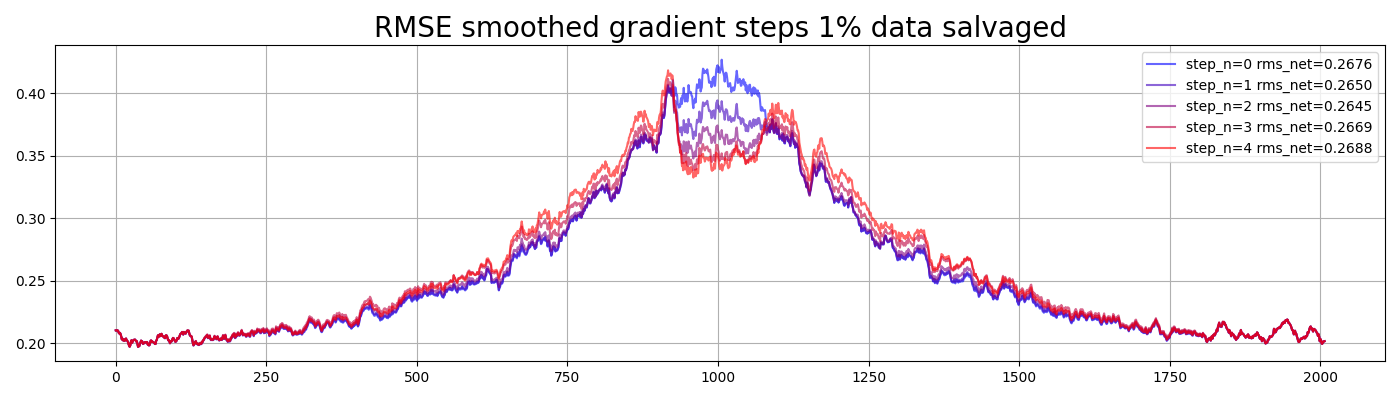
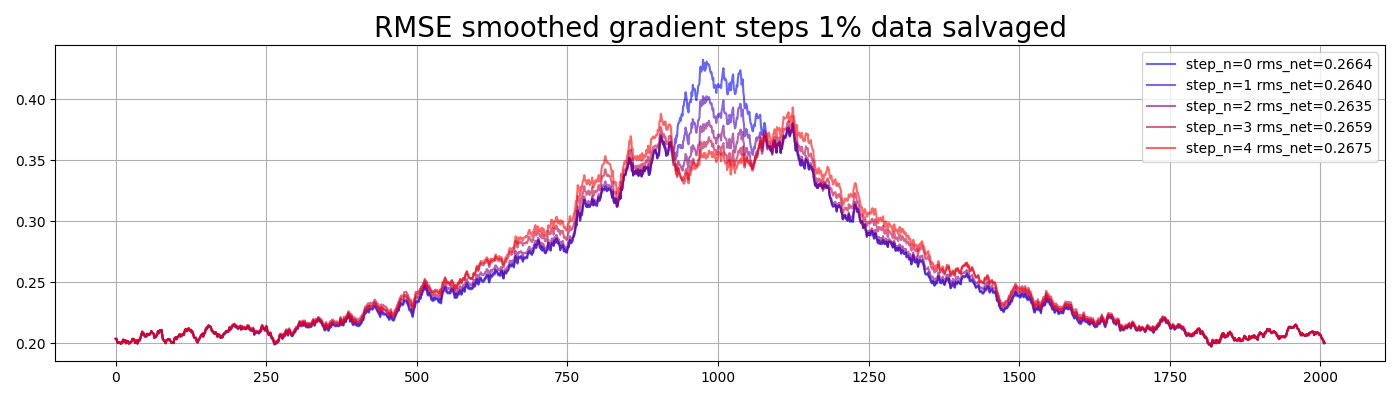
colorscheme change

diff --git a/plots/four_segments_sinc_hanning.py b/plots/four_segments_sinc_hanning.py
@@ -7,6 +7,9 @@ sys.path.append("..")
 import numpy as np
 import matplotlib.pyplot as plt
 
+# Choose a photocopy & color-blind friendly colormap
+colors=plt.get_cmap('Set2').colors # get list of RGB color values
+
 # `ntap` is the number of taps
 # `lblock` is `2*nchan` which is the number of channels before transform
 ntap, lblock = 4, 2048
@@ -28,17 +31,30 @@ plt.figure(figsize=(8.5,7))
 plt.title("".format(ntap,lblock),fontsize=22)
 # Plot the sinc hanning window segments
 # Segment 0
-plt.plot(seg0, color="green", linewidth=0.8, label="segment 0")
-plt.plot(np.arange(0,lblock), sinc_hann[0:lblock], "--", color="green", alpha=0.5, linewidth=3)
+#plt.plot(seg0, color="green", linewidth=0.8, label="segment 0")
+x,y,c = np.arange(0,lblock),sinc_hann[0:lblock],colors[0]
+plt.plot(x,y,"--", color=c, linewidth=3)
+plt.fill_between(x,y,step="pre",alpha=0.4,color=c)
 # Segment 1
-plt.plot(seg1, color="orange", linewidth=0.8, label="segment 1")
-plt.plot(np.arange(lblock,2*lblock), sinc_hann[lblock:2*lblock], "--", color="orange", alpha=0.5, linewidth=3)
+#plt.plot(seg1, color="orange", linewidth=0.8, label="segment 1")
+x,y,c = np.arange(lblock,2*lblock),sinc_hann[lblock:2*lblock],colors[1]
+plt.plot(x,y, "--", color=c,linewidth=3)
+plt.fill_between(x,y,step="pre",alpha=0.4,color=c)
 # Segment 2
-plt.plot(seg2, color="purple", linewidth=0.8, label="segment 2")
-plt.plot(np.arange(2*lblock,3*lblock), sinc_hann[2*lblock:3*lblock], "--", color="purple", alpha=0.5, linewidth=3)
+x,y,c = np.arange(2*lblock,3*lblock),sinc_hann[2*lblock:3*lblock],colors[2]
+#plt.plot(seg2, color="purple", linewidth=0.8, label="segment 2")
+plt.plot(x,y,"--",color=c,linewidth=3)
+plt.fill_between(x,y,step="pre",alpha=0.4,color=c)
 # Segment 3
-plt.plot(seg3, color="red", linewidth=0.8, label="segment 3")
-plt.plot(np.arange(3*lblock,4*lblock), sinc_hann[3*lblock:], "--", color="red", alpha=0.5, linewidth=3)
+#plt.plot(seg3, color="red", linewidth=0.8, label="segment 3")
+x,y,c = np.arange(3*lblock,4*lblock),sinc_hann[3*lblock:4*lblock],colors[3]
+plt.plot(x,y,"--",color=c,linewidth=3)
+plt.fill_between(x,y,step="pre",alpha=0.4,color=c)
+# Plot four big dots
+dt = 331 # How far along to plot the dots relative to each resp. segment
+times=[2048*i+dt for i in range(4)]
+plt.plot(times,sinc_hann[times],'ko',ms=8)
+
 # Labels, formatting
 plt.tick_params(
     axis='x',          # changes apply to the x-axis
@@ -51,7 +67,7 @@ plt.ylabel("Sinc Hanning value", fontsize=16)
 plt.title("Four segments of Sinc Hanning",fontsize=22)
 plt.tight_layout()
 # Optionally save the figure
-plt.savefig("img/four_segments_sinc_hanning.png")
+plt.savefig("img/four_segments_sinc_hanning.png",dpi=400)
 plt.legend()
 plt.show(block=True)
 

diff --git a/plots/rmse_conjugate_gradient_plots.py b/plots/rmse_conjugate_gradient_plots.py
@@ -73,6 +73,9 @@ def AT(x): # the transpose of A
 # Simulate and plot the iPFB quantization noise before and after 
 # correction. 
 
+# Choose a photocopy & color-blind friendly colormap
+colors=plt.get_cmap('Set2').colors # get list of RGB color values
+
 delta = 0.5     # Quantization interval
 k = 80          # Determines length of simulated signal k*lblock
 lblock = 2048
@@ -140,14 +143,14 @@ rms_virgin = np.reshape(rms_virgin[5*lblock:-5*lblock],(k-10,lblock)) # bad prac
 rms_net_virgin = np.sqrt(np.mean(rms_virgin))
 rms_virgin = np.sqrt(np.mean(rms_virgin,axis=0))
 rms_virgin = cg.mav(rms_virgin,5)
-plt.semilogy(rms_virgin[5:-5],label="rmse virgin ipfb") 
+plt.semilogy(rms_virgin[5:-5],label="rmse virgin ipfb",color=colors[0]) 
 
 # rms wiener filtered pfb
 rms_wiener = (x - x0_wiener)**2
 rms_wiener = np.reshape(rms_wiener[5*lblock:-5*lblock],(k-10,lblock)) 
 rms_net_wiener = np.sqrt(np.mean(rms_wiener))
 rms_wiener = np.sqrt(np.mean(rms_wiener,axis=0))
-plt.semilogy(rms_wiener[5:-5],label="rmse wiener filtered") 
+plt.semilogy(rms_wiener[5:-5],label="rmse wiener filtered",color=colors[1]) 
 
 plt.grid(which="both") 
 plt.legend()
@@ -158,21 +161,25 @@ plt.tight_layout()
 plt.savefig("img/RMSE_log_virgin_IPFB_residuals_wiener.png")
 plt.show()
 
+cmap="YlGn" #"RdYlBu" # diverging colorblind photocopy colormap
 # RMS conj gradient descent
 x_out_5 = cg.conjugate_gradient_descent(B_5, u_5, x0=x0_wiener, rmin=0.0, 
         max_iter=15, k=k, lblock=lblock, verbose=True, x_true=x, 
         title="RMSE smoothed gradient steps 5% data salvaged",
-        saveas="img/RMSE_conjugate_gradient_descent_5percent.png")
+        saveas="img/RMSE_conjugate_gradient_descent_5percent.png",
+        cmap=cmap)
 # RMS conj gradient descent
 x_out_3 = cg.conjugate_gradient_descent(B_3, u_3, x0=x0_wiener, rmin=0.0, 
         max_iter=10, k=k, lblock=lblock, verbose=True, x_true=x, 
         title="RMSE smoothed gradient steps 3% data salvaged",
-        saveas="img/RMSE_conjugate_gradient_descent_3percent.png")
+        saveas="img/RMSE_conjugate_gradient_descent_3percent.png",
+        cmap=cmap)
 # RMS conj gradient descent
 x_out_1 = cg.conjugate_gradient_descent(B_1, u_1, x0=x0_wiener, rmin=0.0, 
         max_iter=5, k=k, lblock=lblock, verbose=True, x_true=x, 
         title="RMSE smoothed gradient steps 1% data salvaged",
-        saveas="img/RMSE_conjugate_gradient_descent_1percent.png")        
+        saveas="img/RMSE_conjugate_gradient_descent_1percent.png",
+        cmap=cmap)        
     
 
 

diff --git a/plots/rmse_wiener.py b/plots/rmse_wiener.py
@@ -7,6 +7,9 @@ from conjugate_gradient import mav
 import numpy as np
 import matplotlib.pyplot as plt
 
+# Choose a photocopy & color-blind friendly colormap
+colors=plt.get_cmap('Set2').colors # get list of RGB color values
+
 # Global variables
 lblock = 2048
 nchan = 1025
@@ -78,16 +81,16 @@ rmse_wiener_avg = np.sqrt(np.mean(se_wiener_avg, axis=0))
 plt.subplots(figsize=(14,7))
 
 plt.subplot(211)
-plt.plot(rmse_virgin_avg[:20*lblock], label="no filter")
-plt.plot(rmse_wiener_avg[:20*lblock], label="wiener filter")
+plt.plot(rmse_virgin_avg[:20*lblock],label="no filter",color=colors[0])
+plt.plot(rmse_wiener_avg[:20*lblock],label="wiener filter",color=colors[1])
 plt.legend()
 plt.xlabel("Time, in number of samples")
 plt.title("RMSE")
 plt.grid(which="both")
 
 plt.subplot(212)
-plt.semilogy(rmse_virgin_avg[:20*lblock], label="no filter")
-plt.semilogy(rmse_wiener_avg[:20*lblock], label="wiener filter")
+plt.semilogy(rmse_virgin_avg[:20*lblock],label="no filter",color=colors[0])
+plt.semilogy(rmse_wiener_avg[:20*lblock],label="wiener filter",color=colors[1])
 plt.legend()
 plt.xlabel("Time, in number of samples")
 plt.title("RMSE Log scale")
@@ -104,16 +107,16 @@ plt.show(block=True)
 plt.subplots(figsize=(14,7))
 
 plt.subplot(211)
-plt.plot(rmse_virgin[:20*lblock], label="no filter")
-plt.plot(rmse_wiener[:20*lblock], label="wiener filter")
+plt.plot(rmse_virgin[:20*lblock], label="no filter",color=colors[0])
+plt.plot(rmse_wiener[:20*lblock], label="wiener filter",color=colors[1])
 plt.legend()
 plt.xlabel("Time, in number of samples")
 plt.title("RMSE")
 plt.grid(which="both")
 
 plt.subplot(212)
-plt.semilogy(rmse_virgin[:20*lblock], label="no filter")
-plt.semilogy(rmse_wiener[:20*lblock], label="wiener filter")
+plt.semilogy(rmse_virgin[:20*lblock], label="no filter",color=colors[0])
+plt.semilogy(rmse_wiener[:20*lblock], label="wiener filter",color=colors[1])
 plt.legend()
 plt.xlabel("Time, in number of samples")
 plt.title("RMSE Log scale")

diff --git a/conjugate_gradient.py b/conjugate_gradient.py
@@ -64,7 +64,7 @@ def mav(x, n=4):
 def conjugate_gradient_descent(B, u, x0=None, rmin=0.1, max_iter=20, 
         k=80, lblock=2048, verbose=False, x_true=None, 
         title="RMSE smoothed gradient steps",
-        saveas=None): 
+        saveas=None, cmap="RdYlBu"): 
     """Minimize chi-squared by casting as conjugate gradient. 
     
     This conjugate gradient descent method approximately solves the 
@@ -94,6 +94,7 @@ def conjugate_gradient_descent(B, u, x0=None, rmin=0.1, max_iter=20,
     saveas : str, optional
         If a string is passed (& verbose is True), the figure will be
         saved. 
+    cmap : str or matplotlib colormap object
     
     Returns
     -------
@@ -120,8 +121,9 @@ def conjugate_gradient_descent(B, u, x0=None, rmin=0.1, max_iter=20,
             rms = np.sqrt(np.mean(rms, axis=0))
             rms_smoothed = mav(rms, 20)[20:-20] # Chop off spoiled values
             plt.plot(rms_smoothed, 
-                    color=(i/(max_iter-1), 0.0, 1.0-i/(max_iter-1), 0.6),
-                    label="step_n={} rms_net={:.4f}".format(i, rms_net))
+                    label="step_n={} rms_net={:.4f}".format(i, rms_net),
+                    color=(i/(max_iter-1), 0.0, 1.0-i/(max_iter-1), 0.6)
+                    )
 
         # If it passes below the threashold RMSE, break the loop
         if np.sqrt(np.dot(r,r)) < rmin: 

diff --git a/plots/rmse_calculated.py b/plots/rmse_calculated.py
@@ -6,6 +6,8 @@ import helper as h
 import numpy as np
 import matplotlib.pyplot as plt
 
+# Choose a photocopy & color-blind friendly colormap
+colors=plt.get_cmap('Set2').colors # get list of RGB color values
 
 ntap = 4
 lblock = 2048
@@ -17,9 +19,9 @@ eigengrid_hamm = h.r_window_to_matrix_eig(sinc * np.hamming(len(sinc)))
 
 # Plots
 plt.figure(figsize=(14,4))
-plt.semilogy(np.mean(1/abs(eigengrid**2),axis=1), ".", label="sinc")
-plt.semilogy(np.mean(1/abs(eigengrid_hann**2),axis=1), ".", label="sinc hanning")
-plt.semilogy(np.mean(1/abs(eigengrid_hamm**2),axis=1), ".", label="sinc hamming")
+plt.semilogy(np.mean(1/abs(eigengrid**2),axis=1), ".", label="sinc",color=colors[0])
+plt.semilogy(np.mean(1/abs(eigengrid_hann**2),axis=1), ".", label="sinc hanning",color=colors[1])
+plt.semilogy(np.mean(1/abs(eigengrid_hamm**2),axis=1), ".", label="sinc hamming",color=colors[2])
 plt.title("Analytically Derived RMSE on one Chunk of Data", fontsize=20)
 plt.ylabel("Log R[n]")
 plt.xlabel("n")

diff --git a/plots/sidelobes.py b/plots/sidelobes.py
@@ -5,6 +5,9 @@ import numpy as np
 from numpy.fft import rfft,fftshift,fftshift,fft
 import matplotlib.pyplot as plt
 
+# Choose a photocopy & color-blind friendly colormap
+colors=plt.get_cmap('Set2').colors # get list of RGB color values
+
 ntap = 4
 lblock = 2048
 sinc = np.sinc(np.arange(-ntap/2,ntap/2,1/lblock))
@@ -20,8 +23,8 @@ box,short_box,box_sinc,short_box_sinc = box/scale,short_box/scale,box_sinc/scale
 
 ### plot the sidelobes 
 plt.figure(figsize=(12,8))
-plt.semilogy(np.abs(short_box_sinc),"b-",label="sinc window")
-plt.semilogy(np.abs(short_box),"k-",label="sinc hanning window")
+plt.semilogy(np.abs(short_box_sinc),"-",label="sinc window",color=colors[0])
+plt.semilogy(np.abs(short_box),"-",label="sinc hanning window",color=colors[1])
 plt.tick_params(
     axis='x',          # changes apply to the x-axis
     which='both',      # both major and minor ticks are affected

diff --git a/plots/eigenvalues_ntap4_lblock2048.py b/plots/eigenvalues_ntap4_lblock2048.py
@@ -21,7 +21,7 @@ mat_eig = h.r_window_to_matrix_eig(sinc * np.hanning(ntap*lblock),
 # Plot the figure
 plt.figure(figsize=(8.5,7))
 plt.title("Eigenvalues ntap={} lblock={}".format(ntap,lblock),fontsize=22)
-plt.imshow(np.abs(mat_eig.T), aspect='auto')
+plt.imshow(np.abs(mat_eig.T), aspect='auto',cmap="BrBG") # colorblind cmap
 plt.xlabel("Channels", fontsize=16)
 plt.ylabel("FFT of zero padded sinc-hanning 'chunks'", fontsize=16)
 plt.colorbar()
